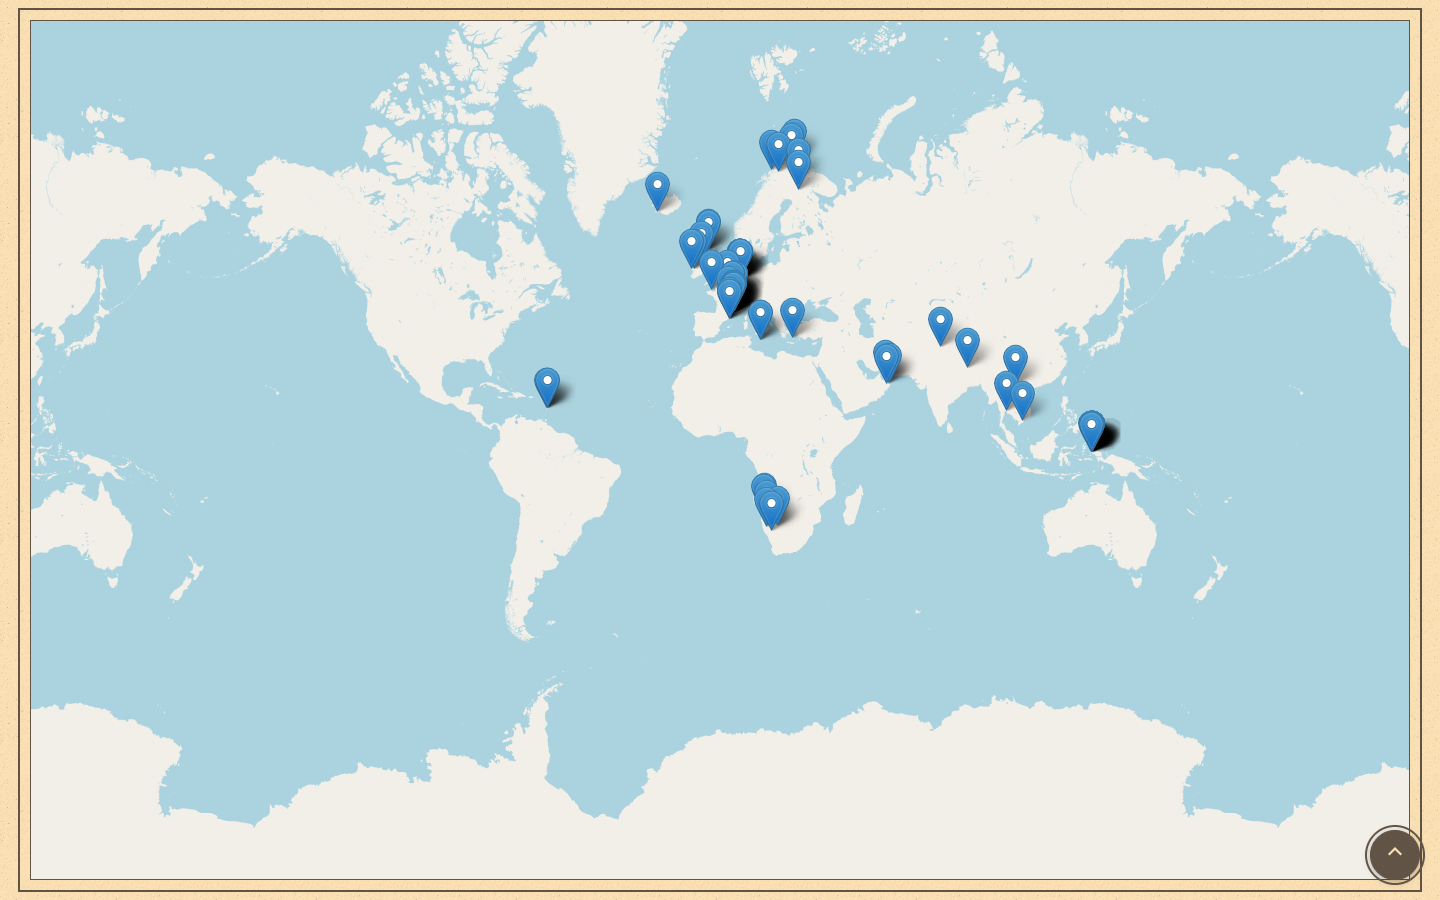
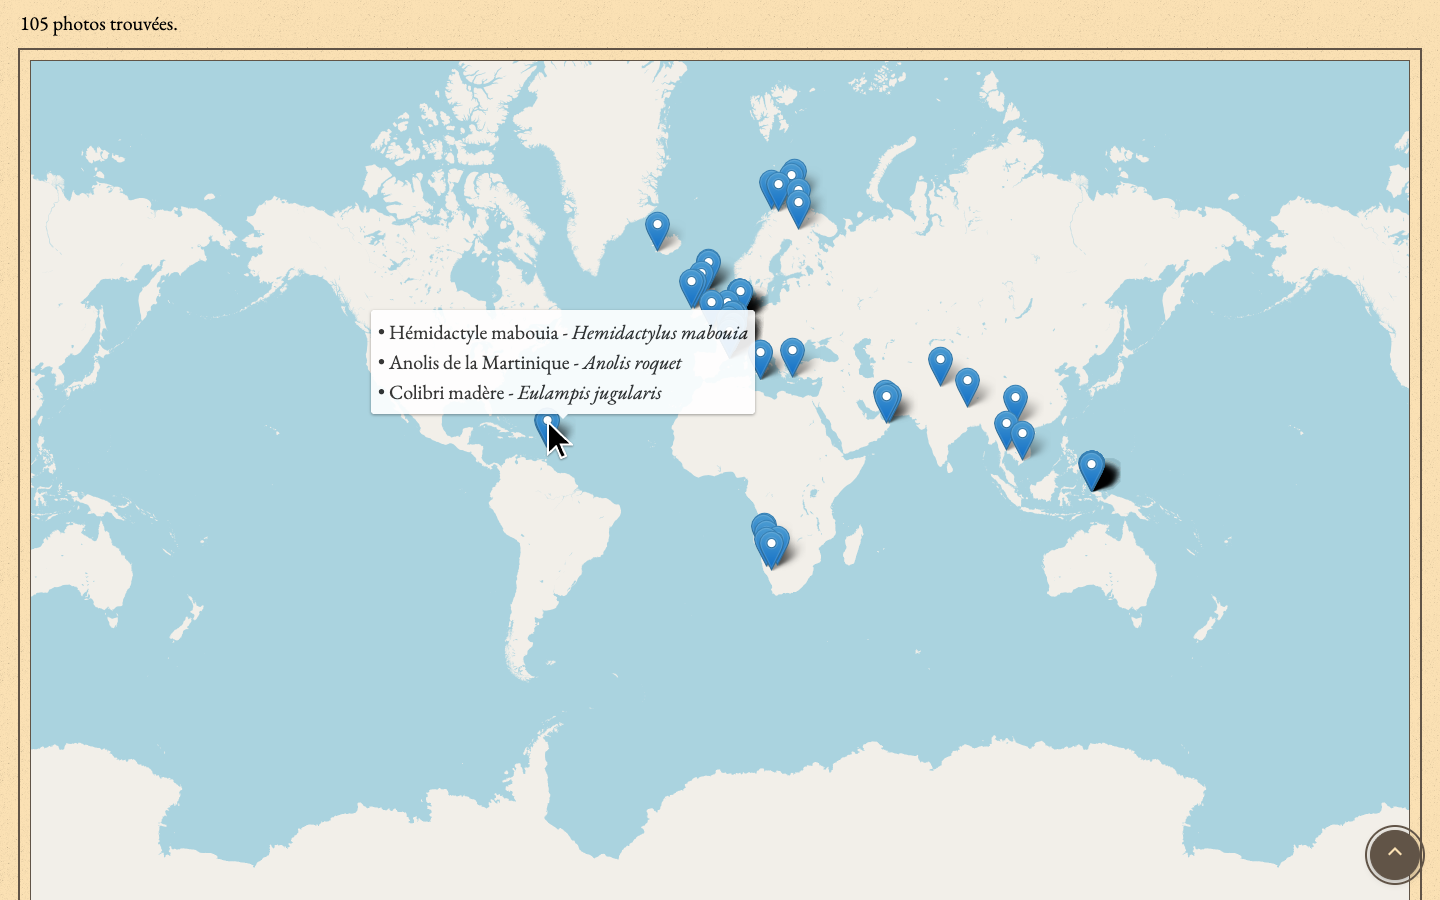
docs: show marker hover on the map screenshot

Changed region(s): [[0.0, 0.0, 1.0, 1.0], [0.9688, 0.3733, 1.0, 0.4356], [0.125, 0.6222, 0.1562, 0.6844]]

diff --git a/README.md b/README.md
@@ -13,7 +13,7 @@
 
 <p align="center">
   <img src="docs/screenshots/species.png" alt="Liste des espèces" width="49%">
-  <img src="docs/screenshots/map.png" alt="Carte des observations" width="49%">
+  <img src="docs/screenshots/map.png" alt="Carte des observations, survol d'un point" width="49%">
 </p>
 
 <sub>Captures réalisées en mode témoin, avec des données de démonstration.</sub>
